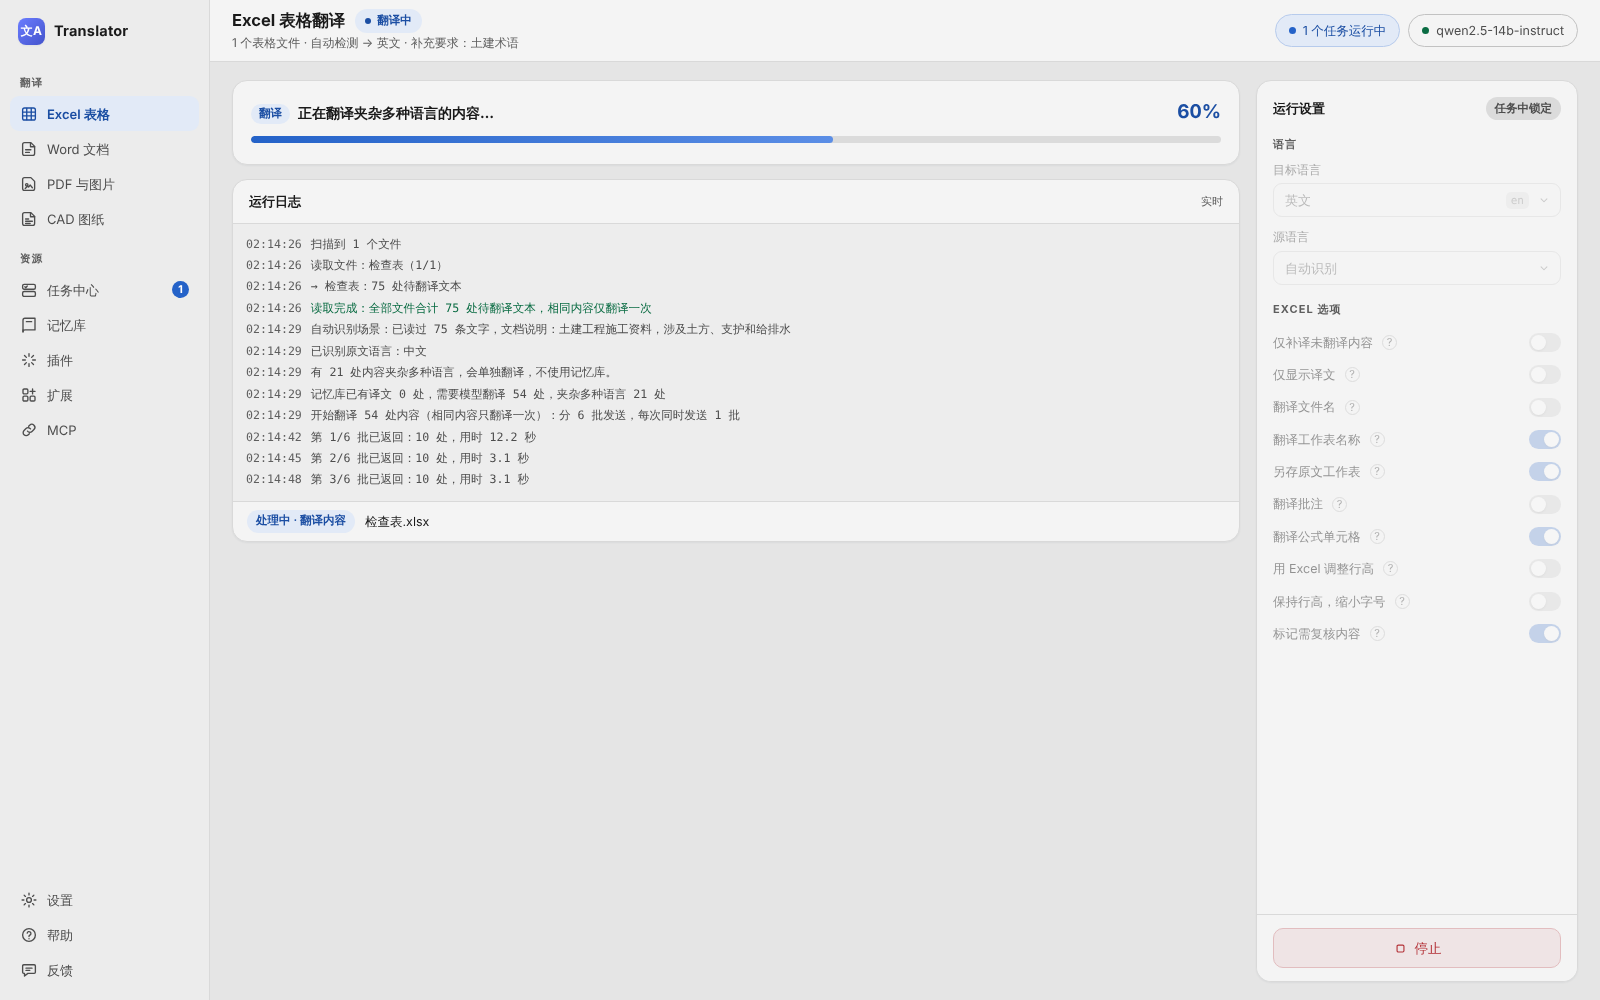
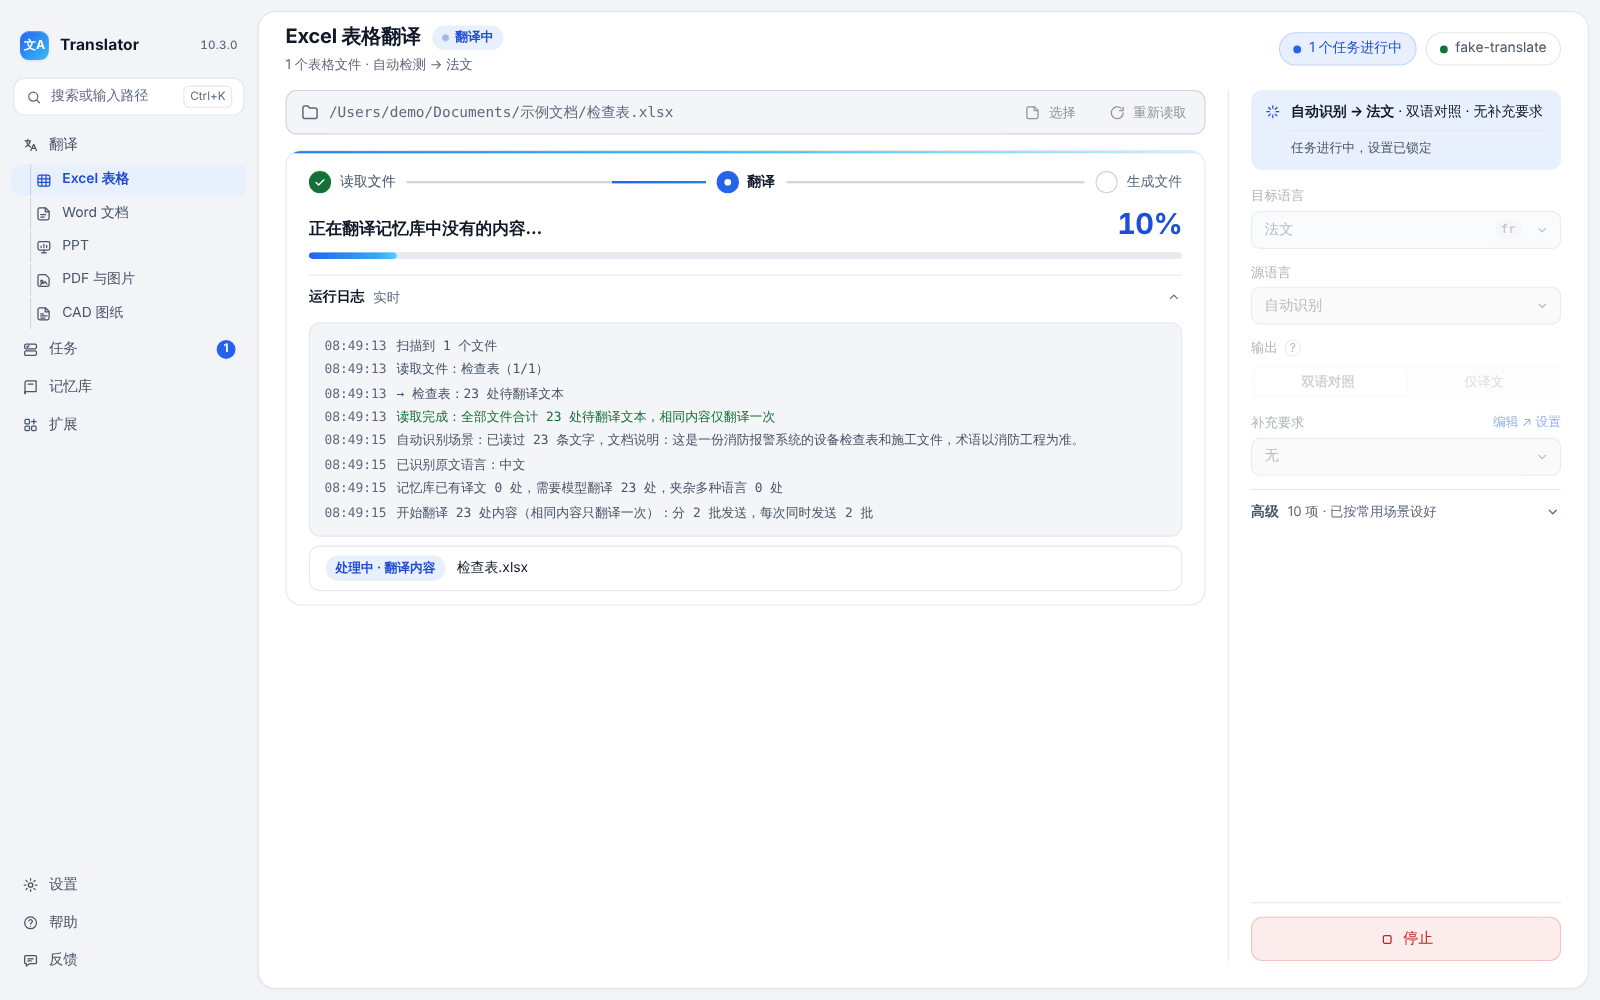
README：界面截图按 V10.3.0 重拍，新增翻译入口页、混合文件夹和 PPT 页截图
Claude-Session: https://claude.ai/code/session_01YEZkxQCauaCsmSrQF1GseW

diff --git a/README.en.md b/README.en.md
@@ -8,7 +8,7 @@ Translator is an open-source desktop application for macOS and Windows that uses
 
 ![Main window after an Excel translation](docs/images/readme/app-excel.png)
 
-> With the exception of the PDF sample pages, the application screenshots and translation results on this page use fictional sample documents and contain no real project content; the PDF sample pages are a page from an equipment manual (French translated into Chinese). The translations were produced by the application itself, and the CAD drawings are shown as displayed in AutoCAD. The interface is shown in Chinese with the default Neutral grey color scheme. The interface language can be changed to English or French under Settings → Appearance & language. Output folder names, report files and review markers written into documents remain in Chinese.
+> With the exception of the PDF sample pages, the application screenshots and translation results on this page use fictional sample documents and contain no real project content; the PDF sample pages are a page from an equipment manual (French translated into Chinese). The translations were produced by the application itself, and the CAD drawings are shown as displayed in AutoCAD. The interface is shown in Chinese with the default Lumen color scheme. The interface language can be changed to English or French under Settings → Appearance & language. Output folder names, report files and review markers written into documents remain in Chinese.
 
 ## Features
 
@@ -39,6 +39,8 @@ Supports `.docx` and legacy `.doc` files, including body text, tables, headers a
 Supports `.pptx`, `.pptm`, `.ppsx` and `.potx`; legacy `.ppt` and `.pps` files are converted first and come out as `.pptx` (conversion uses PowerPoint or LibreOffice installed on the computer). Text boxes, shapes and tables on the slides, text in charts and SmartArt, speaker notes, and fixed text on masters and layouts are translated, keeping bold, colors and hyperlinks as in the original. The default output is translation only; bilingual output with the source and translation together is also available. Text in pictures, embedded objects and comments is not translated, and reading the file reports how many of each there are.
 
 When a translation is longer than the source and does not fit, Layout preference on the right of the page sets how it is handled: Adaptive layout (default) first makes text boxes and tables taller into the empty space below and then reduces the font size; Keep font size leaves the size unchanged and makes boxes taller as needed; Fixed layout keeps the size and position of every box and table and only reduces the font size. Anything that still does not fit is listed for review.
+
+![PowerPoint translation completed](docs/images/readme/app-ppt.png)
 
 ### PDF and images
 
@@ -102,7 +104,13 @@ Jobs of different types can run concurrently. Any job can be stopped (PDF and CA
 
 ### Translation start page and search
 
-The Translation page is the entry point of the application: drop files or folders anywhere in the window and Translator opens the matching translation page. After dropping a folder that holds spreadsheets, documents, presentations and other files together, the Translation page lists each kind of file with its settings; click Start all to translate them together, with the results in one output folder. Press ⌘K (macOS) or Ctrl+K (Windows) to search pages, tasks and translation memory entries; type a file path and press Enter to start translating it.
+The Translation page is the entry point of the application: drop files or folders anywhere in the window and Translator opens the matching translation page. After dropping a folder that holds spreadsheets, documents, presentations and other files together, the Translation page lists each kind of file with its settings; click Start all to translate them together, with the results in one output folder.
+
+![Translation page: drop or select files and folders](docs/images/readme/app-home.png)
+
+![After selecting a folder with several kinds of files: each kind listed with its settings, started together](docs/images/readme/app-batch.png)
+
+Press ⌘K (macOS) or Ctrl+K (Windows) to search pages, tasks and translation memory entries; type a file path and press Enter to start translating it.
 
 ### Checks after translation
 
@@ -116,7 +124,7 @@ The Feedback page in the sidebar is used to report problems or suggest improveme
 
 ### Appearance
 
-Light and dark modes are available and can follow the system setting. Five color schemes can be selected under Settings → Appearance & language: Neutral grey (default), Warm paper, Soft cool, Celadon and Amber comfort. Light and dark mode can each use a different scheme, for example Neutral grey by day and Amber comfort at night.
+Light and dark modes are available and can follow the system setting. Six color schemes can be selected under Settings → Appearance & language: Lumen (default), Neutral grey, Warm paper, Soft cool, Celadon and Amber comfort. Light and dark mode can each use a different scheme, for example Neutral grey by day and Amber comfort at night.
 
 ### Languages and prompts
 

diff --git a/README.md b/README.md
@@ -8,7 +8,7 @@ Translator 是一款开源的、基于大语言模型的桌面文档翻译应用
 
 ![Translator 主界面：Excel 翻译完成](docs/images/readme/app-excel.png)
 
-> 本页的界面截图和翻译结果除 PDF 示例页外均使用虚构的示例资料，不含真实项目内容；PDF 示例页为一份设备说明书中的一页（法语译为中文）。翻译结果由应用实际翻译生成，CAD 图纸为 AutoCAD 中的实际显示效果。界面语言为中文，配色为素雅灰。界面语言可在「设置 → 外观与语言」中切换为英语或法语；输出文件夹名称、报告文件及写入文档的复核标记目前仍为中文。
+> 本页的界面截图和翻译结果除 PDF 示例页外均使用虚构的示例资料，不含真实项目内容；PDF 示例页为一份设备说明书中的一页（法语译为中文）。翻译结果由应用实际翻译生成，CAD 图纸为 AutoCAD 中的实际显示效果。界面语言为中文，配色为默认的流光。界面语言可在「设置 → 外观与语言」中切换为英语或法语；输出文件夹名称、报告文件及写入文档的复核标记目前仍为中文。
 
 ## 功能
 
@@ -39,6 +39,8 @@ Translator 是一款开源的、基于大语言模型的桌面文档翻译应用
 支持 `.pptx`、`.pptm`、`.ppsx`、`.potx`；旧版 `.ppt`、`.pps` 先自动转换，输出为 `.pptx`（转换使用本机的 PowerPoint 或 LibreOffice）。可翻译幻灯片中的文本框、形状和表格，图表与 SmartArt 中的文字，演讲者备注，以及母版和版式上的固定文字；加粗、颜色和超链接按原文保留。默认仅输出译文，也可输出原文与译文对照。图片、嵌入对象和批注中的文字不翻译，读取文件时会说明各有几处。
 
 译文比原文长、放不下时，可在页面右侧的「写回偏好」中选择处理方式：自适应排版（默认）先向下方空白处加高文本框和表格，不够再缩小字号；保持字号则字号不变、文本框按需加高；固定版面则不改变文本框和表格的大小与位置，只缩小字号。仍放不下的内容列入复核。
+
+![PPT 翻译完成](docs/images/readme/app-ppt.png)
 
 ### PDF 与图片
 
@@ -102,7 +104,13 @@ Excel 与 Word 的翻译结果自动存入记忆库，在翻译 Excel、Word 和
 
 ### 翻译入口与搜索
 
-「翻译」页是应用的入口：将文件或文件夹拖到窗口任意位置，即自动进入对应的翻译页。拖入同时含表格、文档、PPT 等多种文件的文件夹时，「翻译」页会列出各类文件和各自的设置，点击「全部开始」即可一起翻译，结果放在同一个输出文件夹中。按 ⌘K（macOS）或 Ctrl+K（Windows）可搜索页面、任务和记忆库词条；输入文件路径后按回车，即可开始翻译。
+「翻译」页是应用的入口：将文件或文件夹拖到窗口任意位置，即自动进入对应的翻译页。拖入同时含表格、文档、PPT 等多种文件的文件夹时，「翻译」页会列出各类文件和各自的设置，点击「全部开始」即可一起翻译，结果放在同一个输出文件夹中。
+
+![翻译页：拖入或选择文件、文件夹](docs/images/readme/app-home.png)
+
+![选择含多种文件的文件夹后，按类型列出文件和各自的设置，一次全部开始](docs/images/readme/app-batch.png)
+
+按 ⌘K（macOS）或 Ctrl+K（Windows）可搜索页面、任务和记忆库词条；输入文件路径后按回车，即可开始翻译。
 
 ### 译后核对
 
